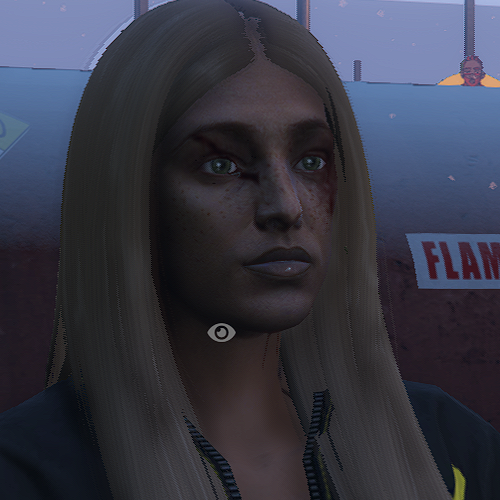
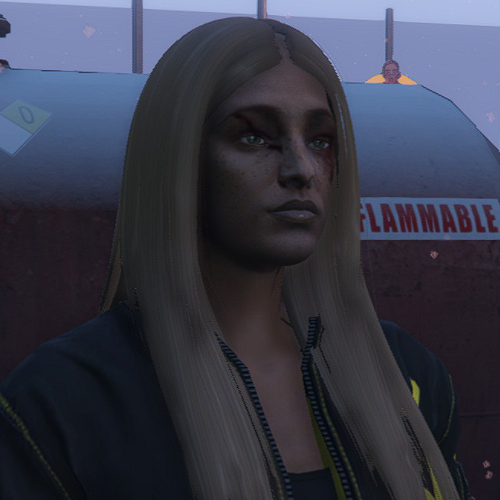
V 1.1

diff --git a/index.html b/index.html
@@ -29,7 +29,7 @@
                 <div class="Logo2">Szef</div>
                 <div class="Logo">
 
-                    <div class="ramka"><img src="png/avatar.png" width="200" height="200"></img>Zbigniew<br> Kolanko
+                    <div class="ramka"><img src="png/Zbychu.png" width="200" height="200"></img>Zbigniew<br> Kolanko
                     </div>
                 </div>
 
@@ -39,7 +39,7 @@
                     </div>
                     <br>
                     <div class="ramka"><img src="png/avatar.png" width="200" height="200"></img>Ari<br> Seto</div><br>
-                    <div class="ramka"><img src="png/avatar.png" width="200" height="200"></img>Mike<br> Getto</div>
+                    <div class="ramka"><img src="png/Mike.png" width="200" height="200"></img>Mike<br> Getto</div>
                     <br>
                     <div class="ramka"><img src="png/Maniek.png" width="200" height="200"></img>Maniek<br> Tarasiewicz
                     </div>
